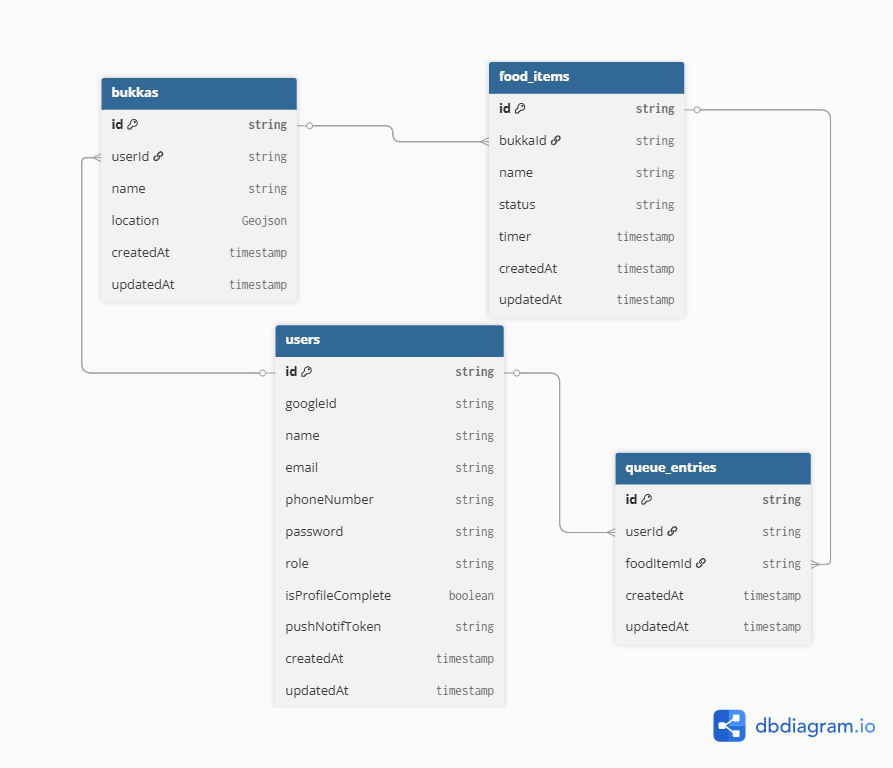
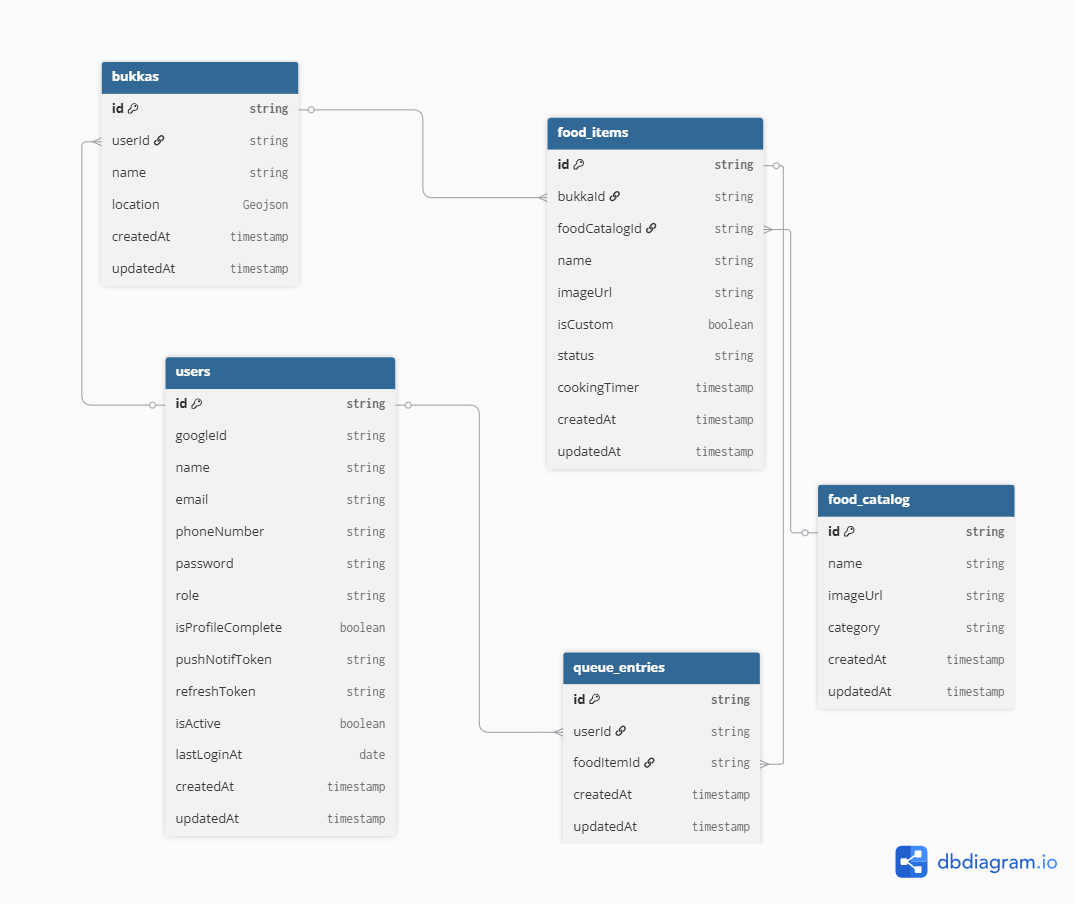
feat: add food catalog model and update data model documentation

diff --git a/src/types/types.ts b/src/types/types.ts
@@ -30,14 +30,25 @@ export interface IBukka {
 
 export interface IFoodItem {
   bukkaId: mongoose.Types.ObjectId;
-  name: string;
-  status: 'unavailable' | 'coming_soon' | 'awaiting_confirmation' | 'izz_ready';
-  timerExpiry: Date;
+  foodCatalogId?: mongoose.Types.ObjectId | undefined;
+  name?: string | undefined;
+  imageUrl?: string | undefined;
+  isCustom: boolean;
+  status: 'unavailable' | 'cooking' | 'awaiting_confirmation' | 'izz_ready';
+  cookingTimer: Date;
 }
 
 export interface IQueue {
   userId: mongoose.Types.ObjectId;
   foodItemId: mongoose.Types.ObjectId;
+}
+
+export interface IFoodCatalog {
+  name: string;
+  imageUrl: string;
+  category: string;
+  // createdAt: Date - Mongoose auto generated
+  // updatedAt: Date - Mongoose auto generated
 }
 
 export interface LoginDetails {

diff --git a/src/models/FoodCatalog.ts b/src/models/FoodCatalog.ts
@@ -1,0 +1,35 @@
+/* eslint-disable @typescript-eslint/no-explicit-any */
+import mongoose from 'mongoose';
+import type { IFoodCatalog } from '../types/types.js';
+
+const foodCatalogSchema = new mongoose.Schema<IFoodCatalog>(
+  {
+    name: {
+      type: String,
+      required: true,
+      unique: true,
+    },
+    imageUrl: {
+      type: String,
+      required: true,
+    },
+    category: {
+      type: String,
+      required: true,
+      unique: true,
+    },
+  },
+  {
+    timestamps: true,
+  }
+);
+
+foodCatalogSchema.set('toJSON', {
+  virtuals: true,
+  transform: (_doc, ret) => {
+    (ret as any)._id = undefined;
+    (ret as any).__v = undefined;
+  },
+});
+
+export const FoodCatalog = mongoose.model('FoodCatalog', foodCatalogSchema);

diff --git a/src/models/FoodItem.ts b/src/models/FoodItem.ts
@@ -8,16 +8,28 @@ const foodItemSchema = new mongoose.Schema<IFoodItem>(
       ref: 'Bukka',
       required: true,
     },
+    foodCatalogId: {
+      type: mongoose.Schema.Types.ObjectId,
+      ref: 'FoodCatalog',
+      sparse: true,
+      index: true,
+    },
     name: {
       type: String,
-      required: true,
+    },
+    imageUrl: {
+      type: String,
+    },
+    isCustom: {
+      type: Boolean,
+      default: true,
     },
     status: {
       type: String,
-      enum: ['unavailable', 'coming_soon', 'awaiting_confirmation', 'izz_ready'],
+      enum: ['unavailable', 'cooking', 'awaiting_confirmation', 'izz_ready'],
       default: 'unavailable',
     },
-    timerExpiry: {
+    cookingTimer: {
       type: Date,
     },
   },

diff --git a/src/controllers/bukkaController.ts b/src/controllers/bukkaController.ts
@@ -11,7 +11,7 @@ export const bukkaSetupController = async (req: Request, res: Response, next: Ne
     const bukkaData = { name, location };
     const bukka = await bukkaSetupService(userId, bukkaData);
 
-    successResponse(res, 201, 'Bukka created successfully.', {bukka});
+    successResponse(res, 201, 'Bukka created successfully.', { bukka });
   } catch (error) {
     next(error);
   }

diff --git a/src/services/bukkaService.ts b/src/services/bukkaService.ts
@@ -6,7 +6,7 @@ import { AppError } from '../utils/AppError.js';
 export const bukkaSetupService = async (userId: string, bukkaData: IBukka) => {
   const { name, location } = bukkaData;
   const ownerId = userId;
-  
+
   // Confirm user exists and has an active account
   const user = await User.findById(userId);
   if (!user) throw new AppError(401, 'Unauthorized. User does not exist.');

diff --git a/docs/DATAMODEL.md b/docs/DATAMODEL.md
@@ -4,7 +4,7 @@
 
 ## Overview
 
-IzzReady's data model consists of four entities: **users**, **bukkas**, **food_items**, and **queue_entries**.
+IzzReady's data model consists of four entities: **users**, **bukkas**, **food_catalog**, **food_items**, and **queue_entries**.
 The model is _normalized_, meaning each piece of information is stored once and referenced by ID everywhere else it is needed.
 
 ---
@@ -16,8 +16,8 @@ Table users {
   id string [pk]  // Mongoose auto generated
   googleId string
   name string
-  email string [unique] [sparse]
-  phoneNumber string [unique] [sparse]
+  email string // [unique] [sparse]
+  phoneNumber string // [unique] [sparse]
   password string
   role string
   isProfileComplete boolean
@@ -38,12 +38,24 @@ Table bukkas {
   updatedAt timestamp
 }
 
+Table food_catalog {
+  id string [pk]
+  name string
+  imageUrl string
+  category string // enum: swallow, rice, soup, meat, beans, yam etc
+  createdAt timestamp
+  updatedAt timestamp
+}
+
 Table food_items {
   id string [pk]
   bukkaId string [ref: > bukkas.id]
+  foodCatalogId string [ref: > food_catalog.id]
   name string
-  status string  // enum: unavailable, coming_soon, awaiting_confirmation, izz_ready
-  expiresAt timestamp // formerly named 'timer' as seen on ERD
+  imageUrl string
+  isCustom boolean
+  status string  // enum: unavailable, cooking, awaiting_confirmation, izz_ready
+  cookingTimer timestamp // formerly named 'timer' as seen on ERD
   createdAt timestamp
   updatedAt timestamp
 }
@@ -65,6 +77,11 @@ Table queue_entries {
 
 - One-to-Many
 - A user can own multiple bukkas
+
+**FoodCatalog → FoodItem**
+
+- One-to-Many
+- One food catalog can be referenced by many food items across many bukkas.
 
 **Bukka → FoodItem**
 

diff --git a/docs/adr/009-food-catalog.md b/docs/adr/009-food-catalog.md
@@ -1,0 +1,24 @@
+# Architecture Decision Record (ADR) 015 — Food Catalog
+
+## Problem
+
+Bukka owners, particularly those who are not tech savvy, need a simple way to add
+food items to their menu without typing. Typing introduces friction — spelling errors,
+inconsistent naming across the platform, and a poor experience for the target audience.
+
+## Options considered
+
+- Free text input where owners type food item names manually
+- Autocomplete suggestions based on previously entered food names
+- A predefined visual food catalog with images and names that owners pick from
+
+## Decision
+
+**A predefined visual food catalog**. Free text input requires owners to spell correctly
+and type on a small screen — a significant barrier for the target audience. Autocomplete
+only becomes useful after enough data exists, making it a post-MVP feature. A visual
+catalog lets owners identify food by image rather than name, removing the literacy and
+spelling barrier entirely. Owners browse by category or search, tap what they recognise,
+and confirm. Custom items are supported via an "add yours" flow where the owner provides
+a name and optional image — these are marked with `isCustom: true` and scoped to their
+bukka only, not added to the global catalog without review.
